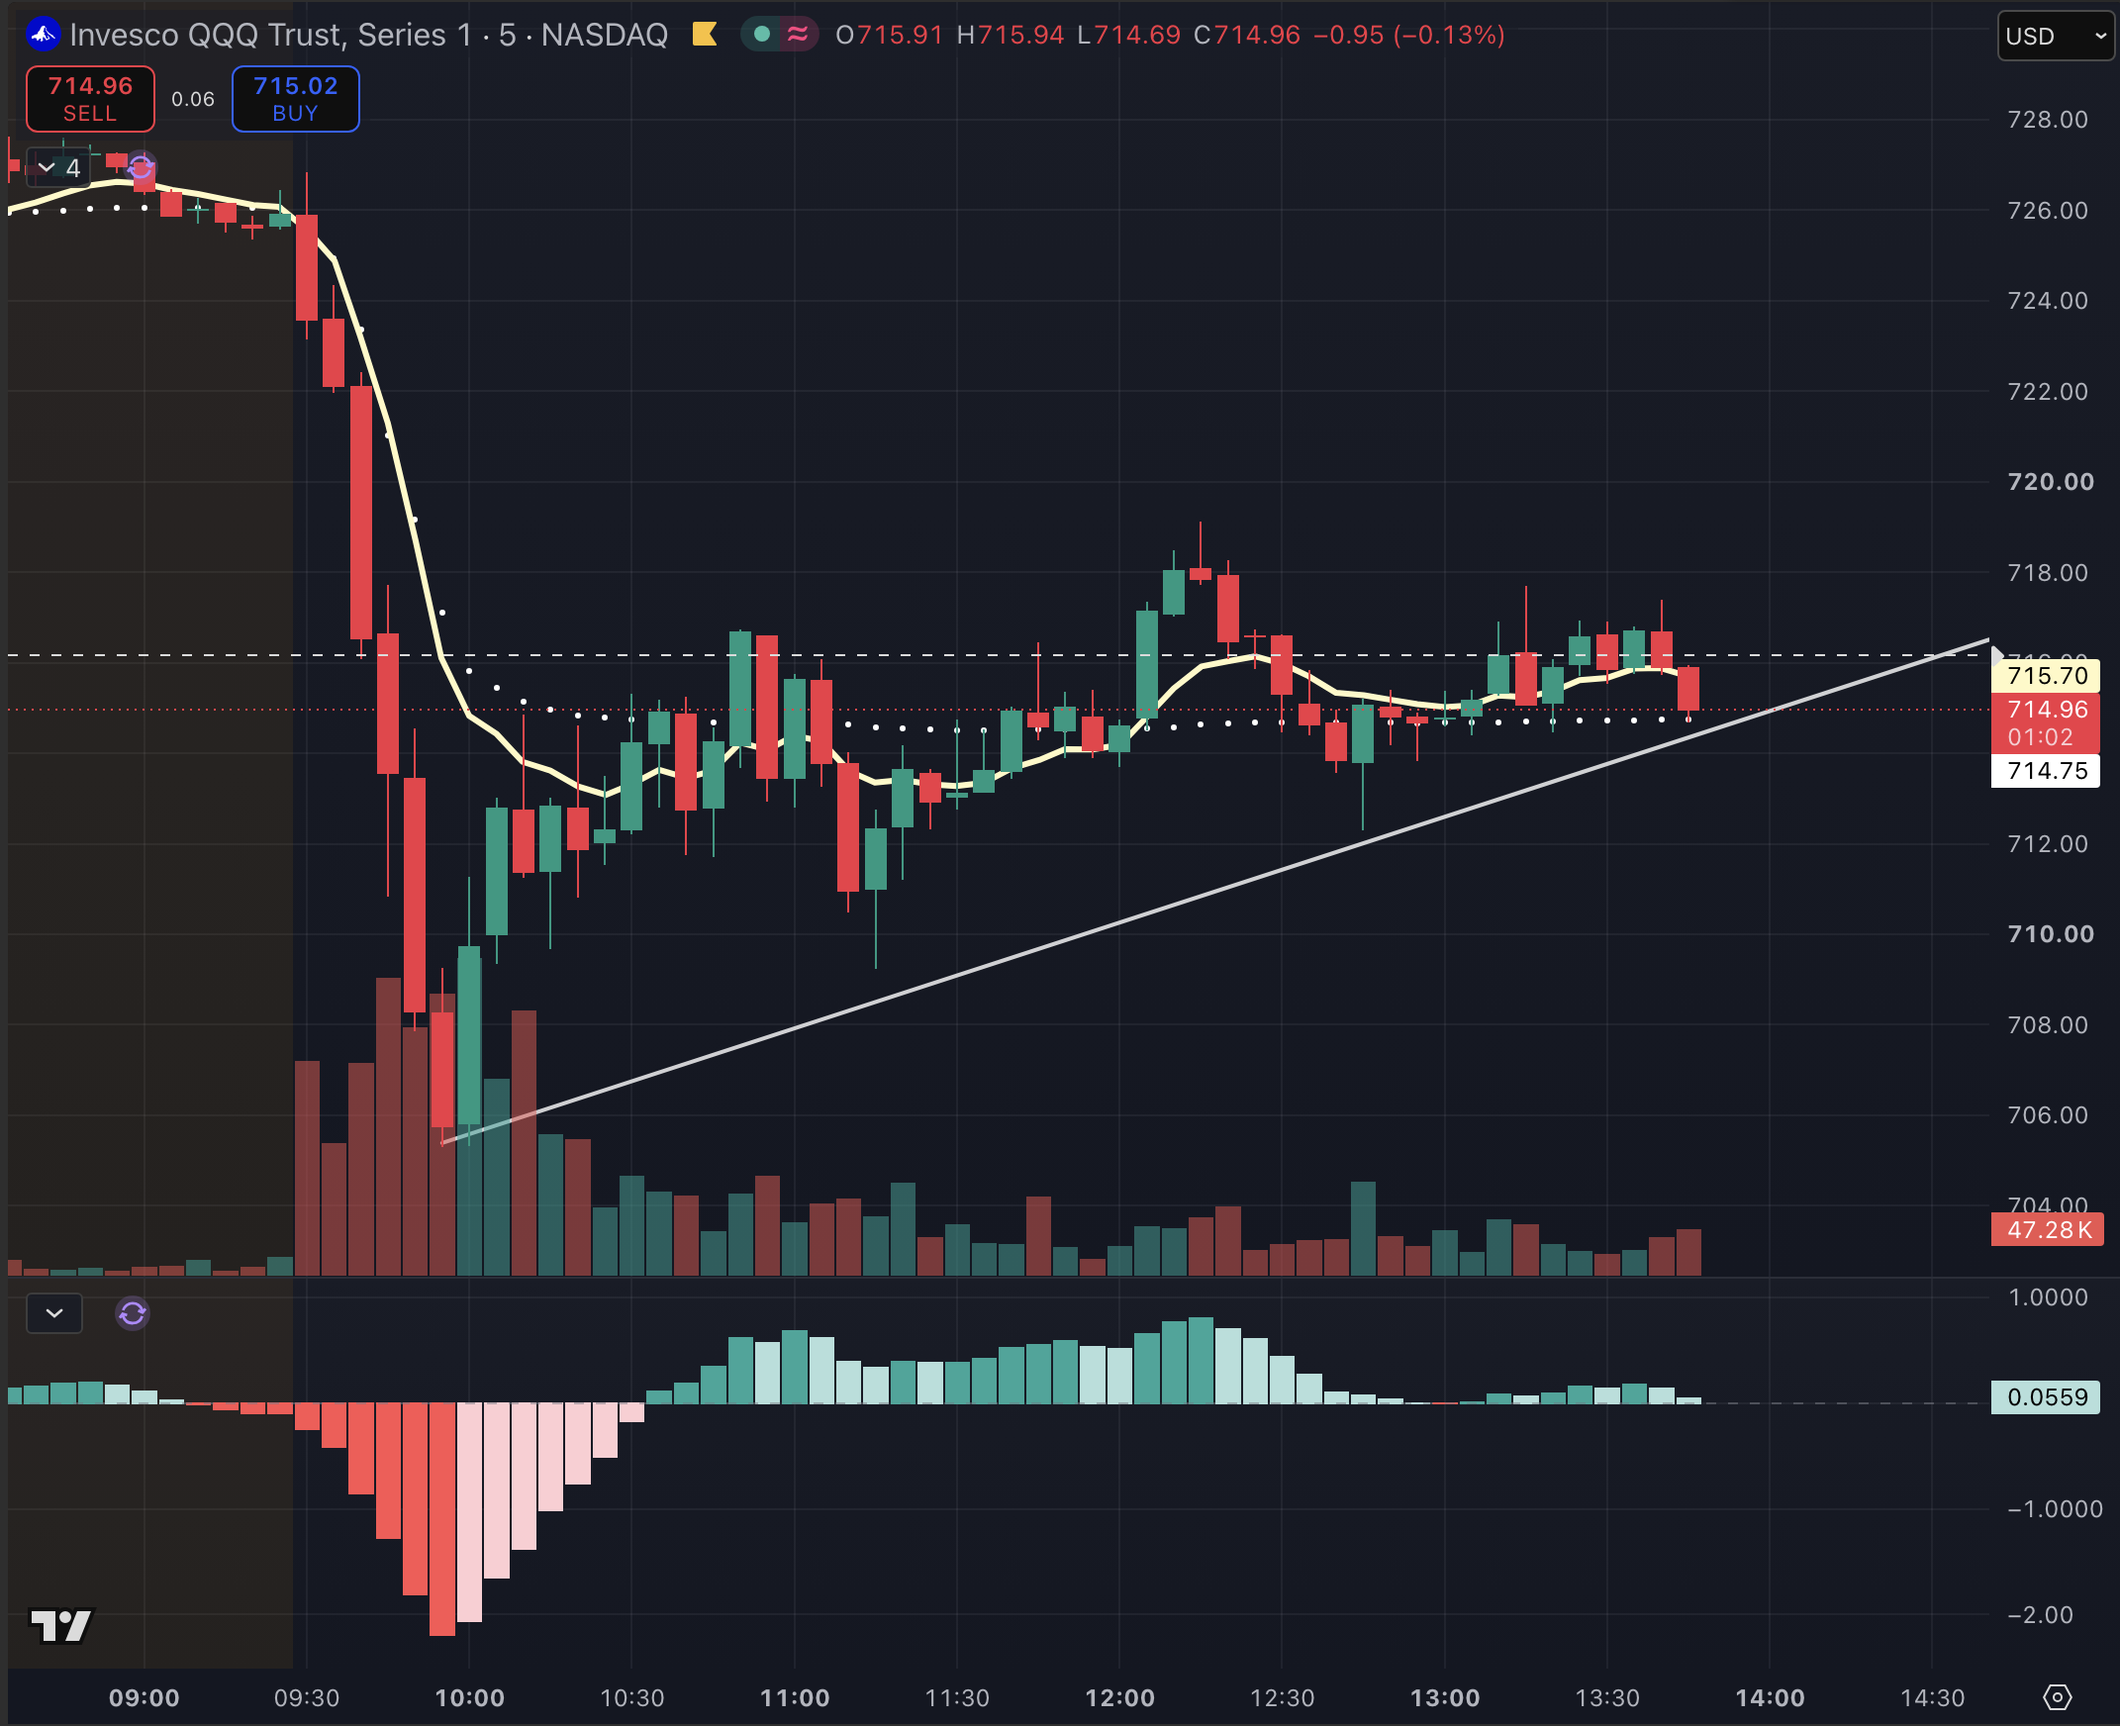
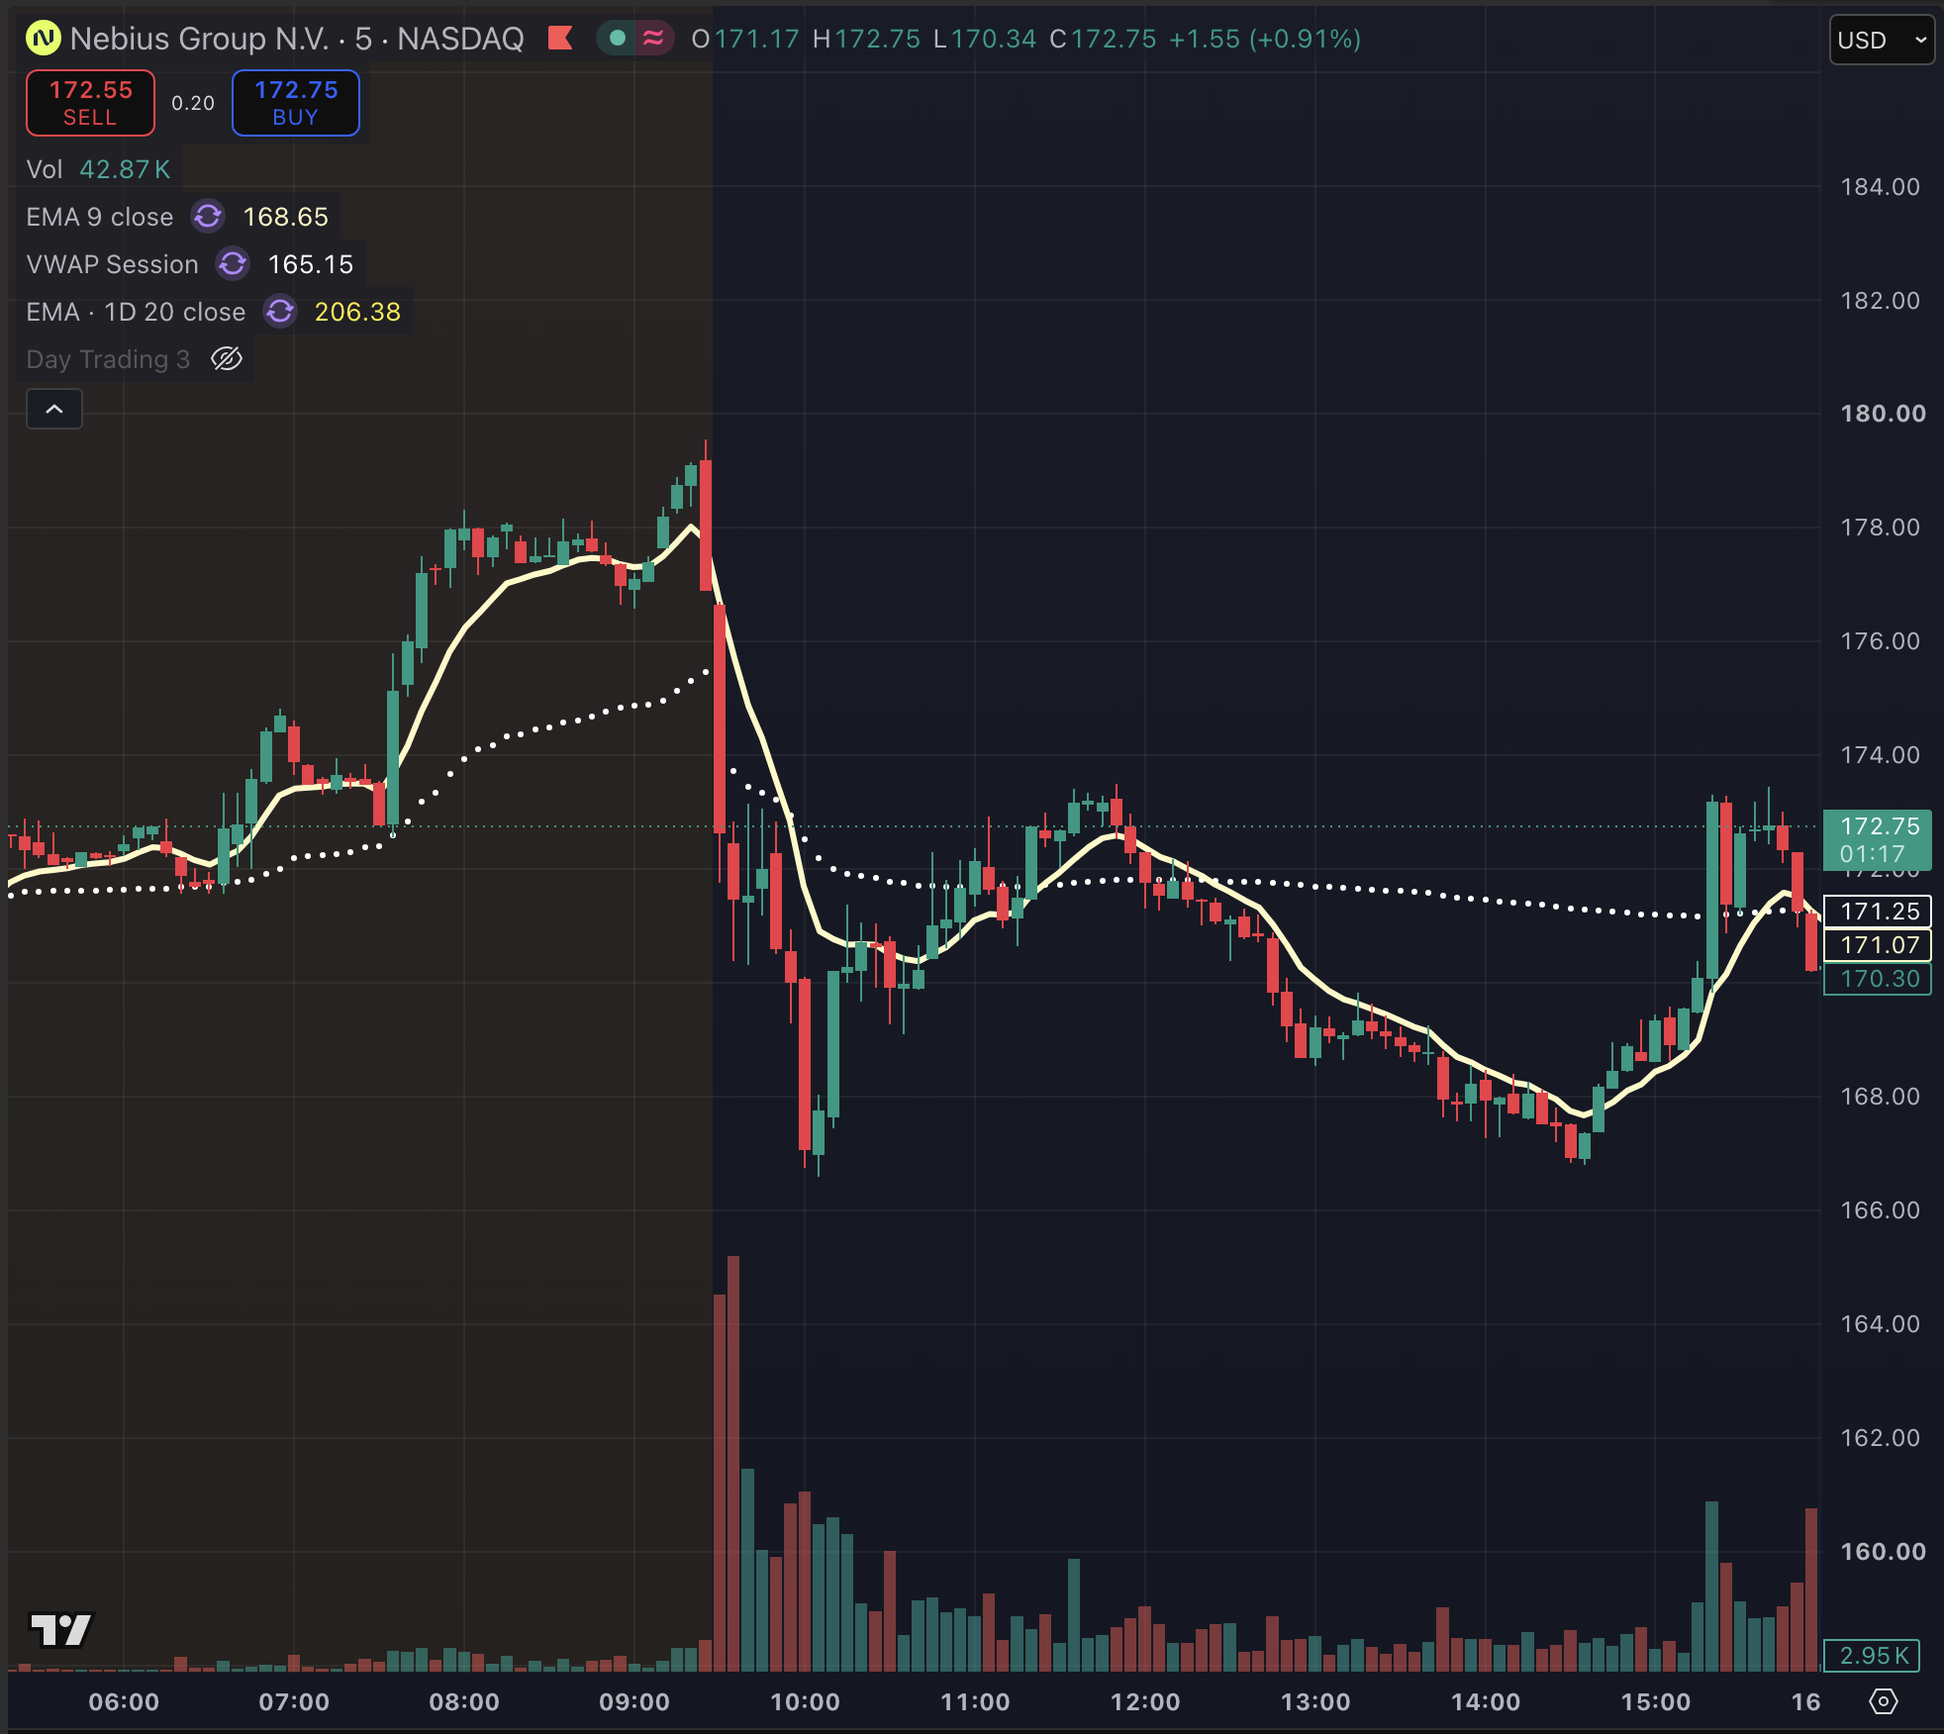
Filter conflicting trading setups in semantic search

diff --git a/lib/semantic-search.ts b/lib/semantic-search.ts
@@ -26,6 +26,33 @@ function cleanContent(content: string): string {
     .slice(0, MAX_CONTENT_LENGTH);
 }
 
+function matchesSetup(query: string, title: string): boolean {
+  const q = normalize(query);
+  const t = normalize(title);
+
+  const gapHigh = /\bgap (?:high|up)\b/;
+  const gapDown = /\bgap down\b/;
+
+  // Opposite opening gaps are different trade setups.
+  if (gapHigh.test(q) && gapDown.test(t)) return false;
+  if (gapDown.test(q) && gapHigh.test(t)) return false;
+
+  // Candle color is a defining condition, not an interchangeable keyword.
+  const greenCandle = /\b(?:green|bullish) candle\b/;
+  const redCandle = /\b(?:red|bearish) candle\b/;
+  if (greenCandle.test(q) && redCandle.test(t)) return false;
+  if (redCandle.test(q) && greenCandle.test(t)) return false;
+
+  // When both sides describe the 20 EMA, reject an opposite price position.
+  const ema20 = /\b20 (?:day )?ema\b|\b20ema\b/;
+  if (ema20.test(q) && ema20.test(t)) {
+    if (/\bbelow\b/.test(q) && /\babove\b/.test(t)) return false;
+    if (/\babove\b/.test(q) && /\bbelow\b/.test(t)) return false;
+  }
+
+  return true;
+}
+
 function cosineSimilarity(a: number[], b: number[]): number {
   let dot = 0;
   let aNorm = 0;
@@ -41,7 +68,9 @@ function cosineSimilarity(a: number[], b: number[]): number {
 }
 
 export async function searchPlaybooks(query: string) {
-  const playbooks = await getPlaybooks();
+  const playbooks = (await getPlaybooks()).filter((playbook) =>
+    matchesSetup(query, playbook.title)
+  );
   if (playbooks.length === 0) return [];
 
   const normalizedQuery = normalize(query);

diff --git a/playbooks/gap-high-after-big-red-candle.md b/playbooks/gap-high-after-big-red-candle.md
@@ -1,19 +1,19 @@
 # Gap High After Big Red Candle  
   
-PEOPLE STUCK WITH SHARES WILL TRY TO SELL AT RESISTANCE  
+PEOPLE STUCK WITH SHARES WILL SELL AT RESISTANCE  
   
-Example: Mar 30, Apr 8,  Jun 9, Jul 27, Aug 19  
+Example: Mar 30, Apr 8,  Jun 9, Jul 27, Aug 19, NBIS Oct 19  
   
-- ****++SELL BEFORE OPEN / AT OPEN++****  
+- ****++SELL AT OPEN++****  
 - ****EXPECT SELLOFF AT OPEN****  
-- **++SELL AT PREMARKET HIGH++**  
 - **SELL AT BREAKEVEN HOLD CASH**  
+- **SELL AT VWAP AT 10-10:30**  
 - ****++DO NOT BUY BACK BELOW 9EMA++****  
 - ****Expect Complete Pullback to Open / Previous Close Price****  
   
 *****DO NOT SELL ON TUESDAY ABOVE VWAP* July 21, 2026****  
   
-![uso -](/charts/gap-high-after-big-red-candle/chart-1.png)  
+![EMA 9 close 0 168.63](/charts/gap-high-after-big-red-candle/chart-1.png)  
   
   
 ![Screenshot 2026-08-19 at 1.29.29 PM.png](/charts/gap-high-after-big-red-candle/chart-2.png)  

diff --git a/playbooks/gap-high-below-20ema.md b/playbooks/gap-high-below-20ema.md
@@ -1,0 +1,18 @@
+# Gap High Below 20EMA  
+  
+Example: NBIS OCT 21  
+  
+Especially When PM Price Below After-Hour Price  
+  
+- ****++SELL AT OPEN++****  
+- ****EXPECT SELLOFF AT OPEN****  
+- **SET STOP SELL BELOW PM LOW**  
+- **SELL AT BREAKEVEN HOLD CASH**  
+- **SELL AT VWAP AT 10-10:30**  
+- ****++DO NOT BUY BACK BELOW 9EMA++****  
+- ****Expect Complete Pullback to Open / Previous Close Price****  
+- **Expect Gap Down Next Day**  
+  
+*****DO NOT SELL ON TUESDAY ABOVE VWAP* July 21, 2026****  
+  
+![Screenshot 2026-10-21 at 10.10.28 AM.png](/charts/gap-high-below-20ema/chart-1.png)  
